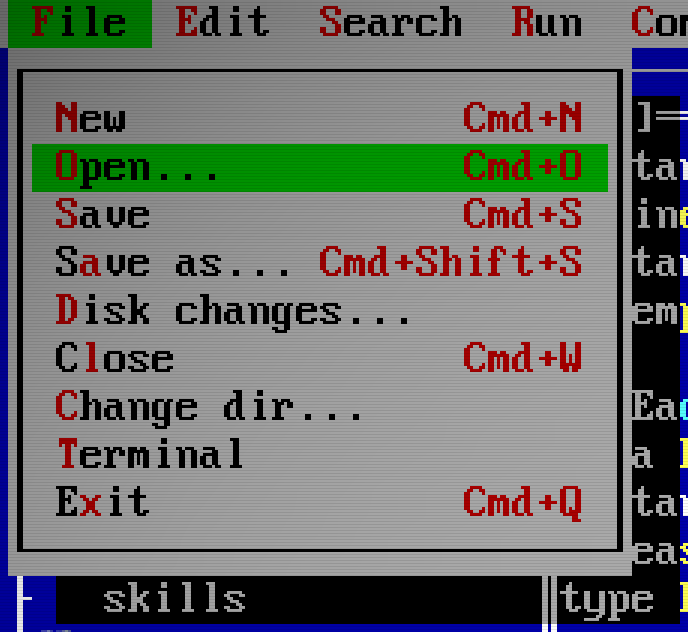
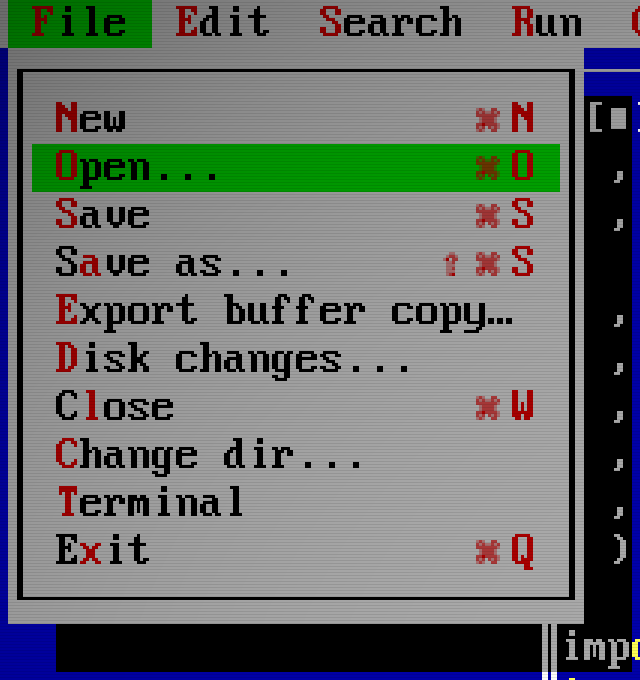
Export current buffer copies through frontend file export

Changed region(s): [[0.0, 0.0, 1.0, 1.0], [0.6562, 0.5411, 0.8438, 0.6313]]

diff --git a/docs/editing.md b/docs/editing.md
@@ -42,6 +42,32 @@ files within the same directory; directory moves remain a separate operation.
 closing open buffers. Enter browses into the selected directory, Browse opens
 a typed path, and OK accepts the displayed directory.
 
+## Export a buffer copy
+
+Choose **File > Export buffer copy…**, or right-click in a source editor and
+choose **Export buffer copy…**, to export the current buffer. The copy includes
+unsaved edits, preserves text line endings and exports binary buffers byte for
+byte. Unnamed buffers use their suggested filename or a default name. Exporting
+does not save the buffer, clear its unsaved state or change the file on disk.
+
+In a browser, use the **Download** link above the editor. Click it to download
+the snapshot, or drag it to another application in Chromium where supported.
+The link remains available when the destination cannot receive the drag.
+**File > Download** also downloads the current buffer directly.
+
+In the native macOS window, wait for the snapshot to become ready, then drag the
+source window's title to the desktop, Finder or another application. This exports
+a copy. Editing, moving, resizing or changing the source window invalidates the
+prepared gesture; choose Export buffer copy again. Other native frontends and
+text terminals use an optional [file drag helper](configuration.md#terminal-file-drag-helper),
+which opens a separate window to drag from. The export is prepared on the
+connected frontend, including when the editor runs over SSH.
+
+Snapshots are limited to 16 MiB. Native and helper frontends retain at most four
+copies until the frontend closes, allowing the receiving application to finish
+reading them. Right-clicking a file in Files and choosing **Export saved copy…**
+continues to export its saved disk contents.
+
 ## Cabal packages
 
 The sidebar shows each `.cabal` package in the selected directory as a separate
